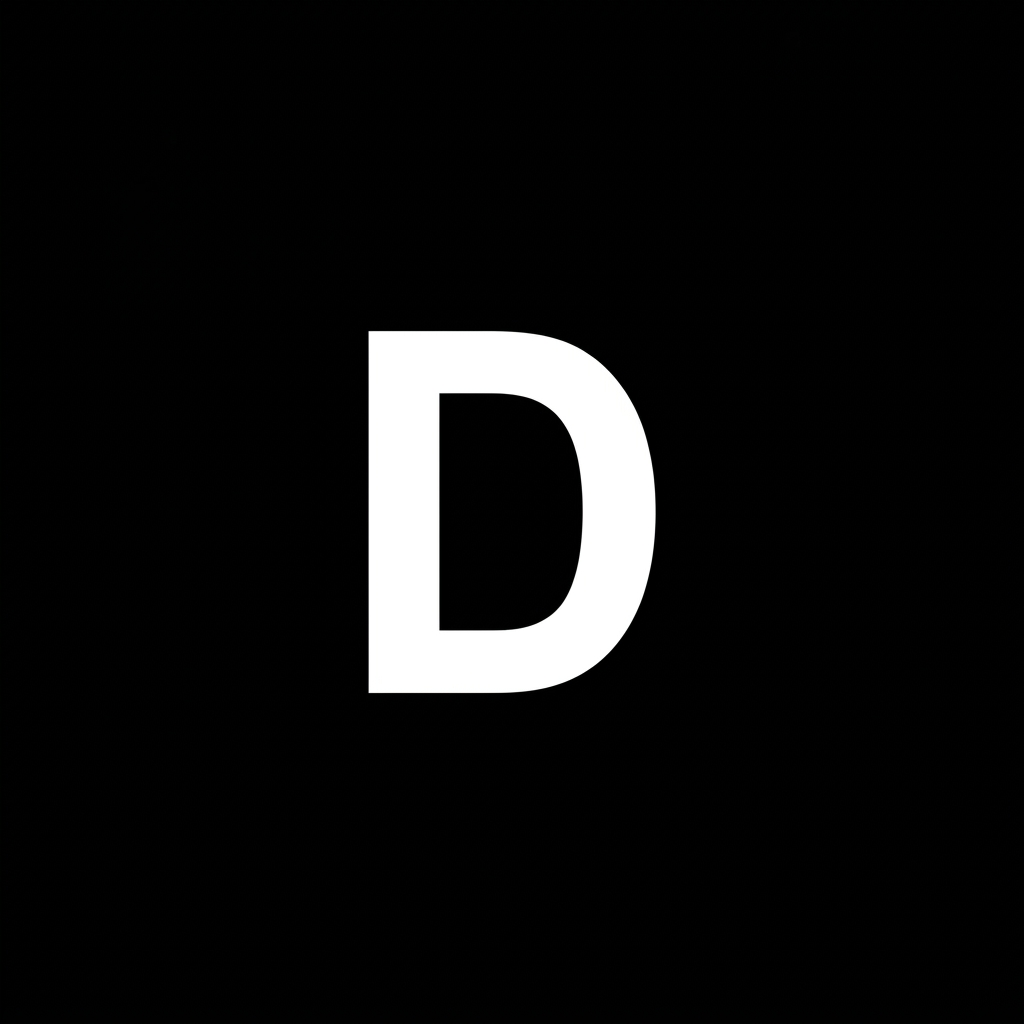
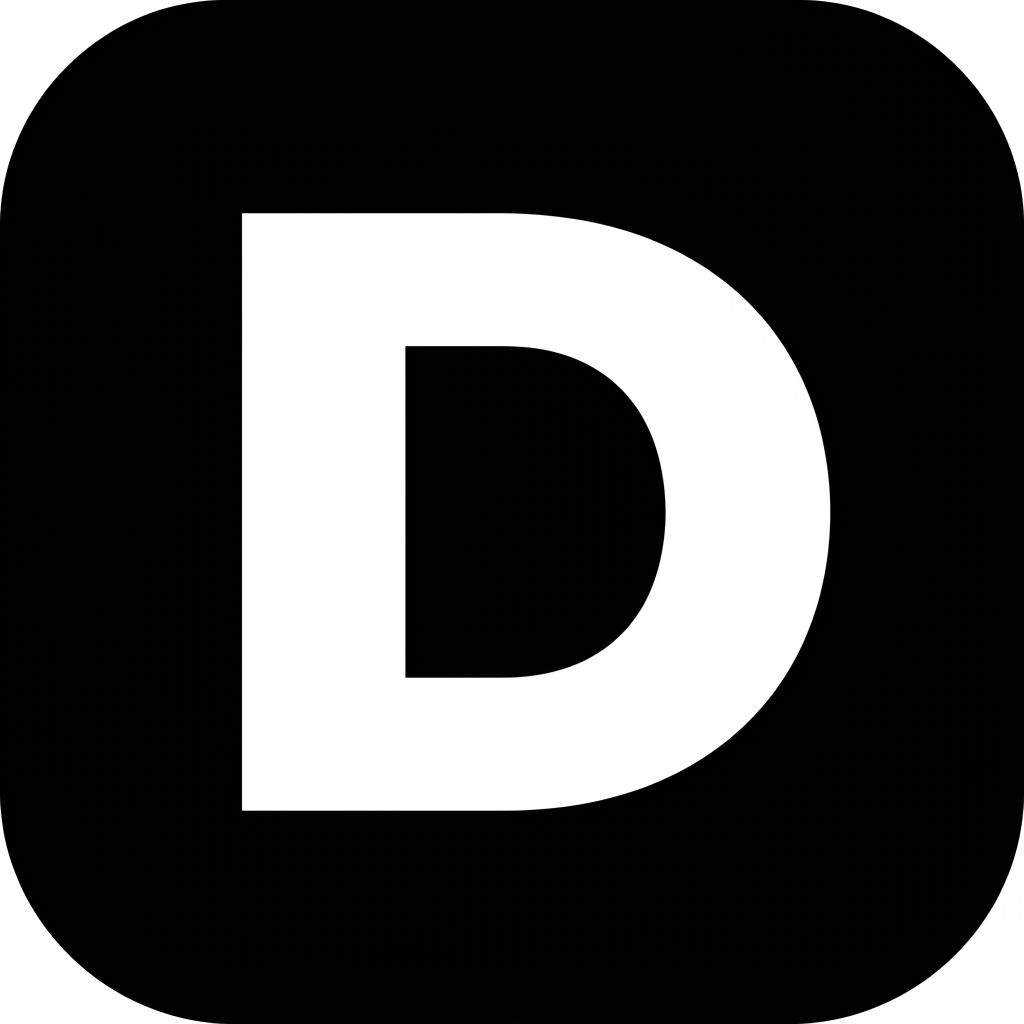
Rebrand app to Dapaz but retain original package IDs for update

diff --git a/app/trending/[id].tsx b/app/trending/[id].tsx
@@ -32,13 +32,32 @@ export default function TrendingDetailScreen() {
       
     if (mainPost) setTopicPost(mainPost);
 
-    const { data: relatedPosts } = await supabase
+    // Build the query
+    let query = supabase
       .from('posts')
       .select('id, content, image_urls, video_url, created_at, creator_id, parent_id, settings, profiles:creator_id(id, full_name, username, avatar_url, is_verified), likes(count), comments(count)')
-      .order('created_at', { ascending: false })
-      .limit(15);
+      .limit(30);
 
-    if (relatedPosts) setPosts(relatedPosts);
+    // If category is provided and is not 'For You' or 'Trending', filter by it
+    if (category && category !== 'For You' && category !== 'Trending') {
+       query = query.contains('settings', { category });
+    }
+
+    const { data: relatedPosts } = await query;
+
+    if (relatedPosts) {
+      if (activeTab === 'Latest') {
+        relatedPosts.sort((a, b) => new Date(b.created_at).getTime() - new Date(a.created_at).getTime());
+      } else {
+        // Top: sort by engagement (likes + comments)
+        relatedPosts.sort((a, b) => {
+          const scoreA = (a.likes?.[0]?.count || 0) + (a.comments?.[0]?.count || 0);
+          const scoreB = (b.likes?.[0]?.count || 0) + (b.comments?.[0]?.count || 0);
+          return scoreB - scoreA;
+        });
+      }
+      setPosts(relatedPosts);
+    }
     setLoading(false);
   };
 
@@ -49,10 +68,20 @@ export default function TrendingDetailScreen() {
           <Ionicons name="arrow-back" size={24} color={colors.text} />
         </TouchableOpacity>
         <View style={styles.headerRight}>
-          <TouchableOpacity style={styles.iconBtn}>
+          <TouchableOpacity style={styles.iconBtn} onPress={() => {
+            import('react-native').then(({ Alert }) => {
+              Alert.alert('Report', 'Thank you for your report. We will review this topic.');
+            });
+          }}>
             <Ionicons name="flag-outline" size={22} color={colors.text} />
           </TouchableOpacity>
-          <TouchableOpacity style={styles.iconBtn}>
+          <TouchableOpacity style={styles.iconBtn} onPress={() => {
+            import('react-native').then(({ Share }) => {
+              Share.share({
+                message: `Check out the latest on "${topicPost?.content?.substring(0, 50) || 'this trending topic'}" on Dapaz!`,
+              });
+            });
+          }}>
             <Ionicons name="share-outline" size={22} color={colors.text} />
           </TouchableOpacity>
         </View>

diff --git a/app/(tabs)/search.tsx b/app/(tabs)/search.tsx
@@ -36,8 +36,13 @@ export default function () {
 
   useEffect(() => {
     fetchExplore()
-    fetchTrending()
   }, [])
+
+  useEffect(() => {
+    if (activeTab !== 'For You') {
+      fetchTrending(activeTab)
+    }
+  }, [activeTab])
 
   const fetchExplore = async () => {
     setExploreLoading(true)
@@ -68,14 +73,22 @@ export default function () {
     setExploreLoading(false)
   }
 
-  const fetchTrending = async () => {
+  const fetchTrending = async (tab: string) => {
     setNewsLoading(true)
-    const { data, error } = await supabase
+    let query = supabase
       .from('posts')
       .select('id, content, image_urls, video_url, created_at, creator_id, parent_id, settings, profiles:creator_id(id, full_name, username, avatar_url, is_verified), likes(count), comments(count)')
-      .or('image_urls.not.is.null')
-      .order('created_at', { ascending: false })
       .limit(30)
+      
+    if (tab !== 'Trending') {
+      // Filter by the specific category tab (e.g. News, Sports, Entertainment)
+      query = query.contains('settings', { category: tab })
+    } else {
+      // 'Trending' tab shows mixed popular content
+      query = query.or('image_urls.not.is.null')
+    }
+
+    const { data, error } = await query.order('created_at', { ascending: false })
     
     if (error) console.error('Trending fetch error:', error)
     if (data) setTrendingPosts(data)
